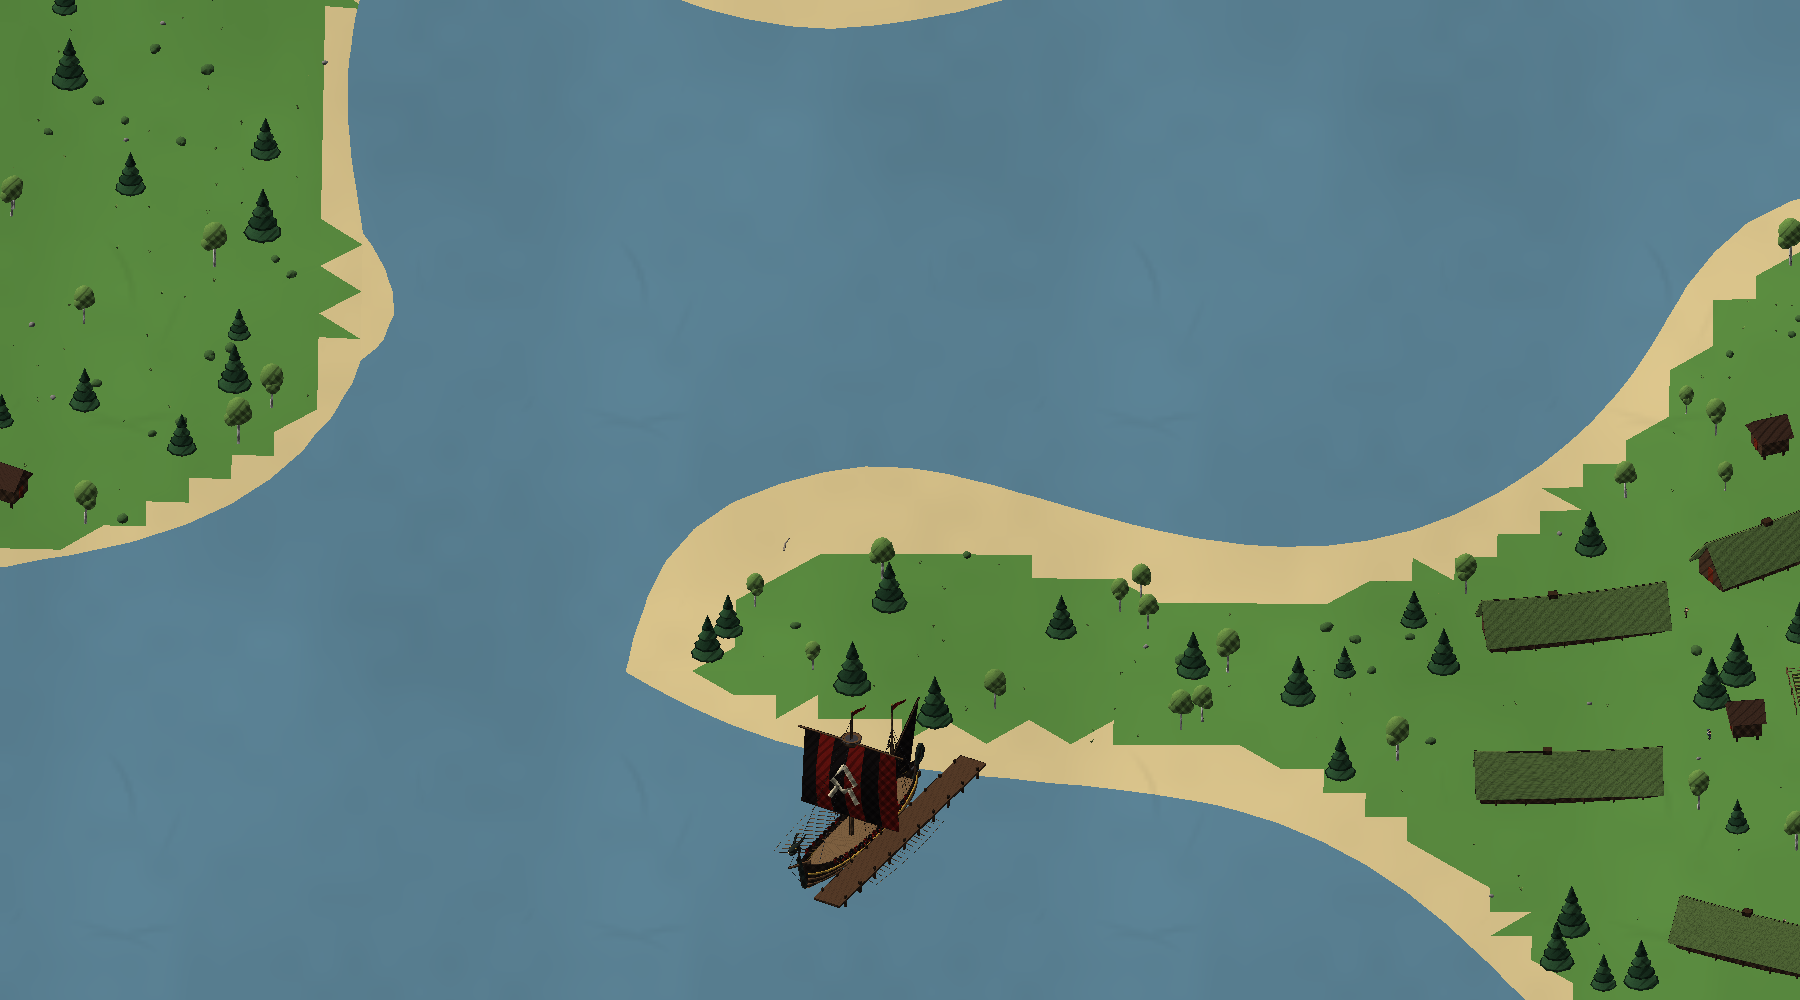
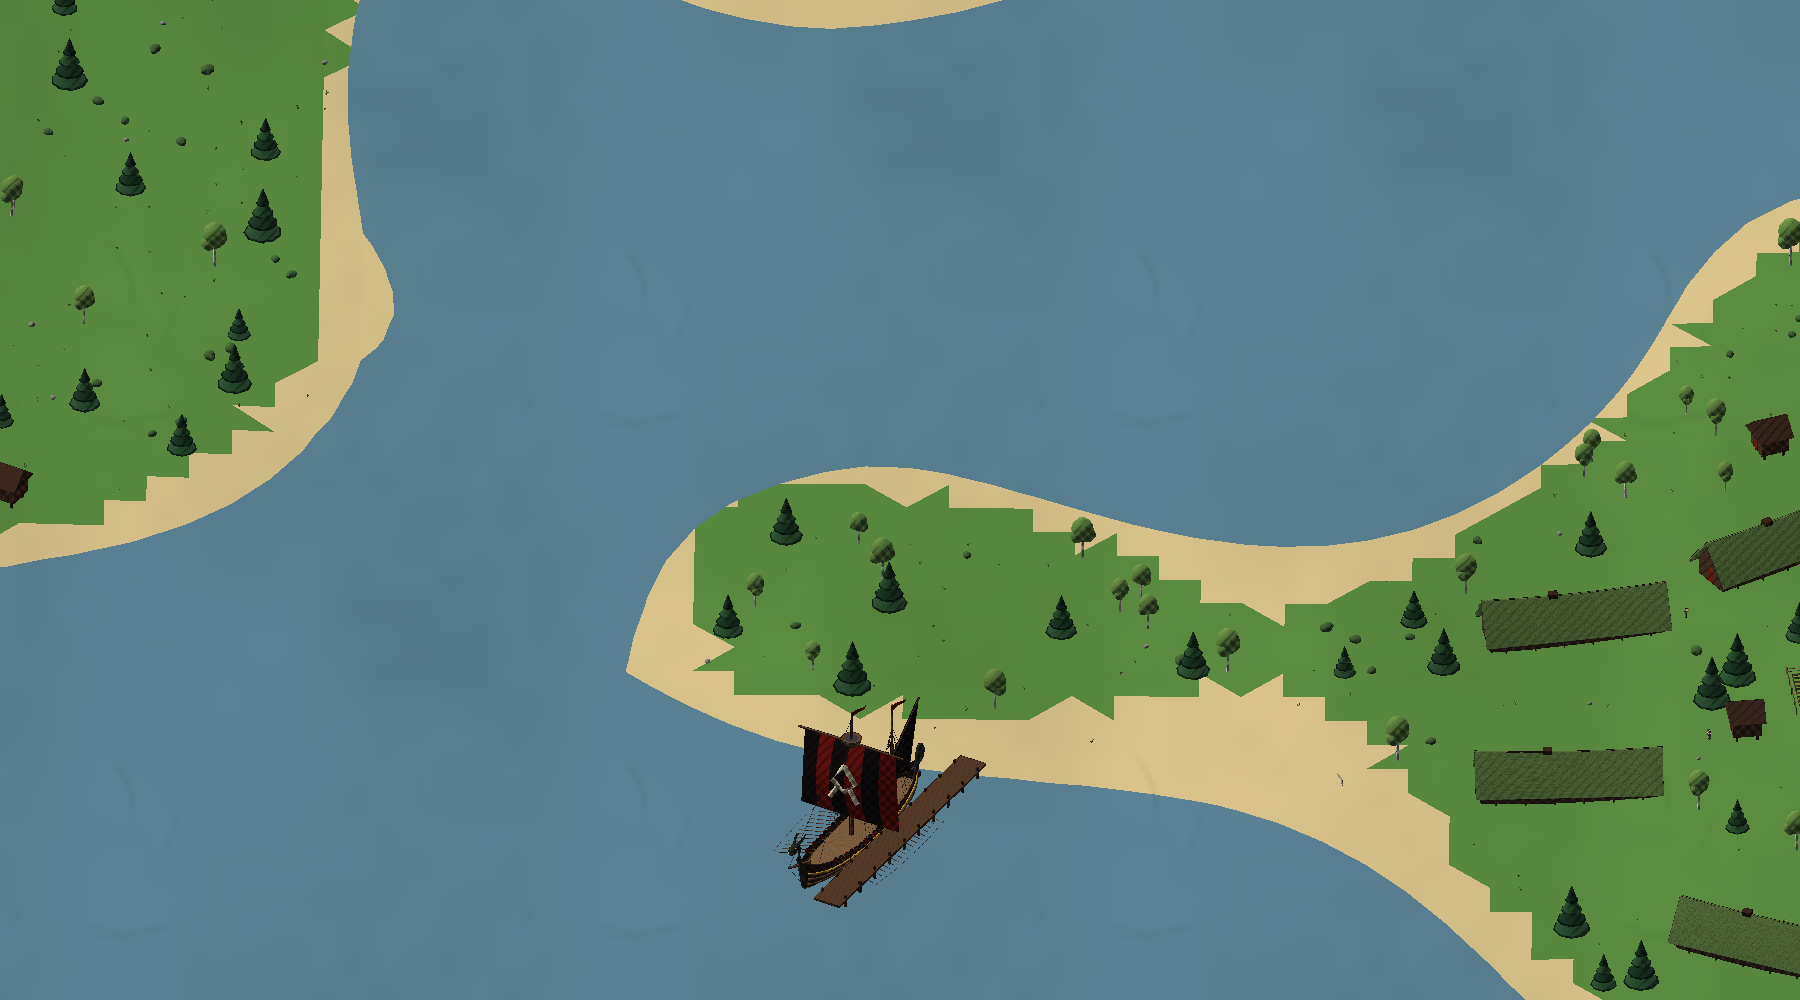
The top of the beach wanders along the coast, so the grass edge winds in and out
Claude-Session: https://claude.ai/code/session_01SCdejJ1UF8RUxAkkFhZXGU

diff --git a/OdinsCoin/Assets/Scripts/World/TerrainDetail.cs b/OdinsCoin/Assets/Scripts/World/TerrainDetail.cs
@@ -41,15 +41,24 @@ namespace OdinsCoin
         }
 
         /// <summary>What the ground is: sand on the shore, grass on the lower slopes, rock on steep and high ground, snow on the peaks.</summary>
-        public static Ground Kind(float realHeight, float slope)
+        public static Ground Kind(float realHeight, float slope) { return Kind(realHeight, slope, 0f); }
+
+        /// <summary>...with the top of the beach raised or lowered by <paramref name="shore"/> (m, see <see cref="Shore"/>).</summary>
+        public static Ground Kind(float realHeight, float slope, float shore)
         {
             if (realHeight < -0.5f) return Ground.Seabed;
             if (realHeight > 1500f || (realHeight > 1100f && slope < 0.5f)) return Ground.Snow;
             // Only a strip of beach at the waterline: the low farmland of the south is green, not a desert.
-            if (realHeight < 0.22f && slope < 0.35f) return Ground.Sand;
+            if (realHeight < 0.22f + shore && slope < 0.35f) return Ground.Sand;
             if (slope > 0.7f || realHeight > 850f) return Ground.Rock;
             return Ground.Grass;
         }
+
+        /// <summary>
+        /// How far up the beach reaches at a spot (m, about -0.2..0.2): it wanders along the coast, so the edge of
+        /// the grass winds in and out instead of following the squares of the land.
+        /// </summary>
+        public static float Shore(double x, double z) { return Fbm(x / 60.0 + 5.3, z / 60.0 - 8.1, 2) * 0.4f; }
 
         // ---------------------------------------------------------------- noise
 

diff --git a/OdinsCoin/Assets/Scripts/World/WorldTerrain.cs b/OdinsCoin/Assets/Scripts/World/WorldTerrain.cs
@@ -16,6 +16,8 @@ namespace OdinsCoin
 
         public readonly List<Vector3> Vertices = new List<Vector3>();
         public readonly List<int>[] Triangles;
+        /// <summary>The patch's south-west corner (global).</summary>
+        double x0, z0;
 
         public TerrainPatch()
         {
@@ -31,6 +33,7 @@ namespace OdinsCoin
         public static TerrainPatch Build(WorldMap map, double x0, double z0, float size, int quads, float sink = 0f)
         {
             var p = new TerrainPatch();
+            p.x0 = x0; p.z0 = z0;
             float step = size / quads, s = WorldMap.Scale;
             var h = new float[quads + 1, quads + 1];
             for (int j = 0; j <= quads; j++)
@@ -65,7 +68,7 @@ namespace OdinsCoin
             float mean = (a.y + b.y + c.y) / 3f;
             float slope = (Mathf.Max(a.y, Mathf.Max(b.y, c.y)) - Mathf.Min(a.y, Mathf.Min(b.y, c.y))) / step;
             // Ground dug out for a cave is bare rock.
-            var kind = dug ? Ground.Rock : TerrainDetail.Kind(mean / s, slope);
+            var kind = dug ? Ground.Rock : TerrainDetail.Kind(mean / s, slope, TerrainDetail.Shore(x0 + (a.x + b.x + c.x) / 3f, z0 + (a.z + b.z + c.z) / 3f));
             var list = Triangles[(int)kind];
             foreach (var v in new[] { a, b, c })
             {

diff --git a/OdinsCoin/Assets/Scripts/World/Scenery.cs b/OdinsCoin/Assets/Scripts/World/Scenery.cs
@@ -254,7 +254,7 @@ namespace OdinsCoin
             float h = TerrainDetail.Height(map, x, z);
             float dx = TerrainDetail.Height(map, x + 3.0, z) - h, dz = TerrainDetail.Height(map, x, z + 3.0) - h;
             float slope = Mathf.Sqrt(dx * dx + dz * dz) / 3f;
-            return TerrainDetail.Kind(h / WorldMap.Scale, slope);
+            return TerrainDetail.Kind(h / WorldMap.Scale, slope, TerrainDetail.Shore(x, z));
         }
 
         void Update()
